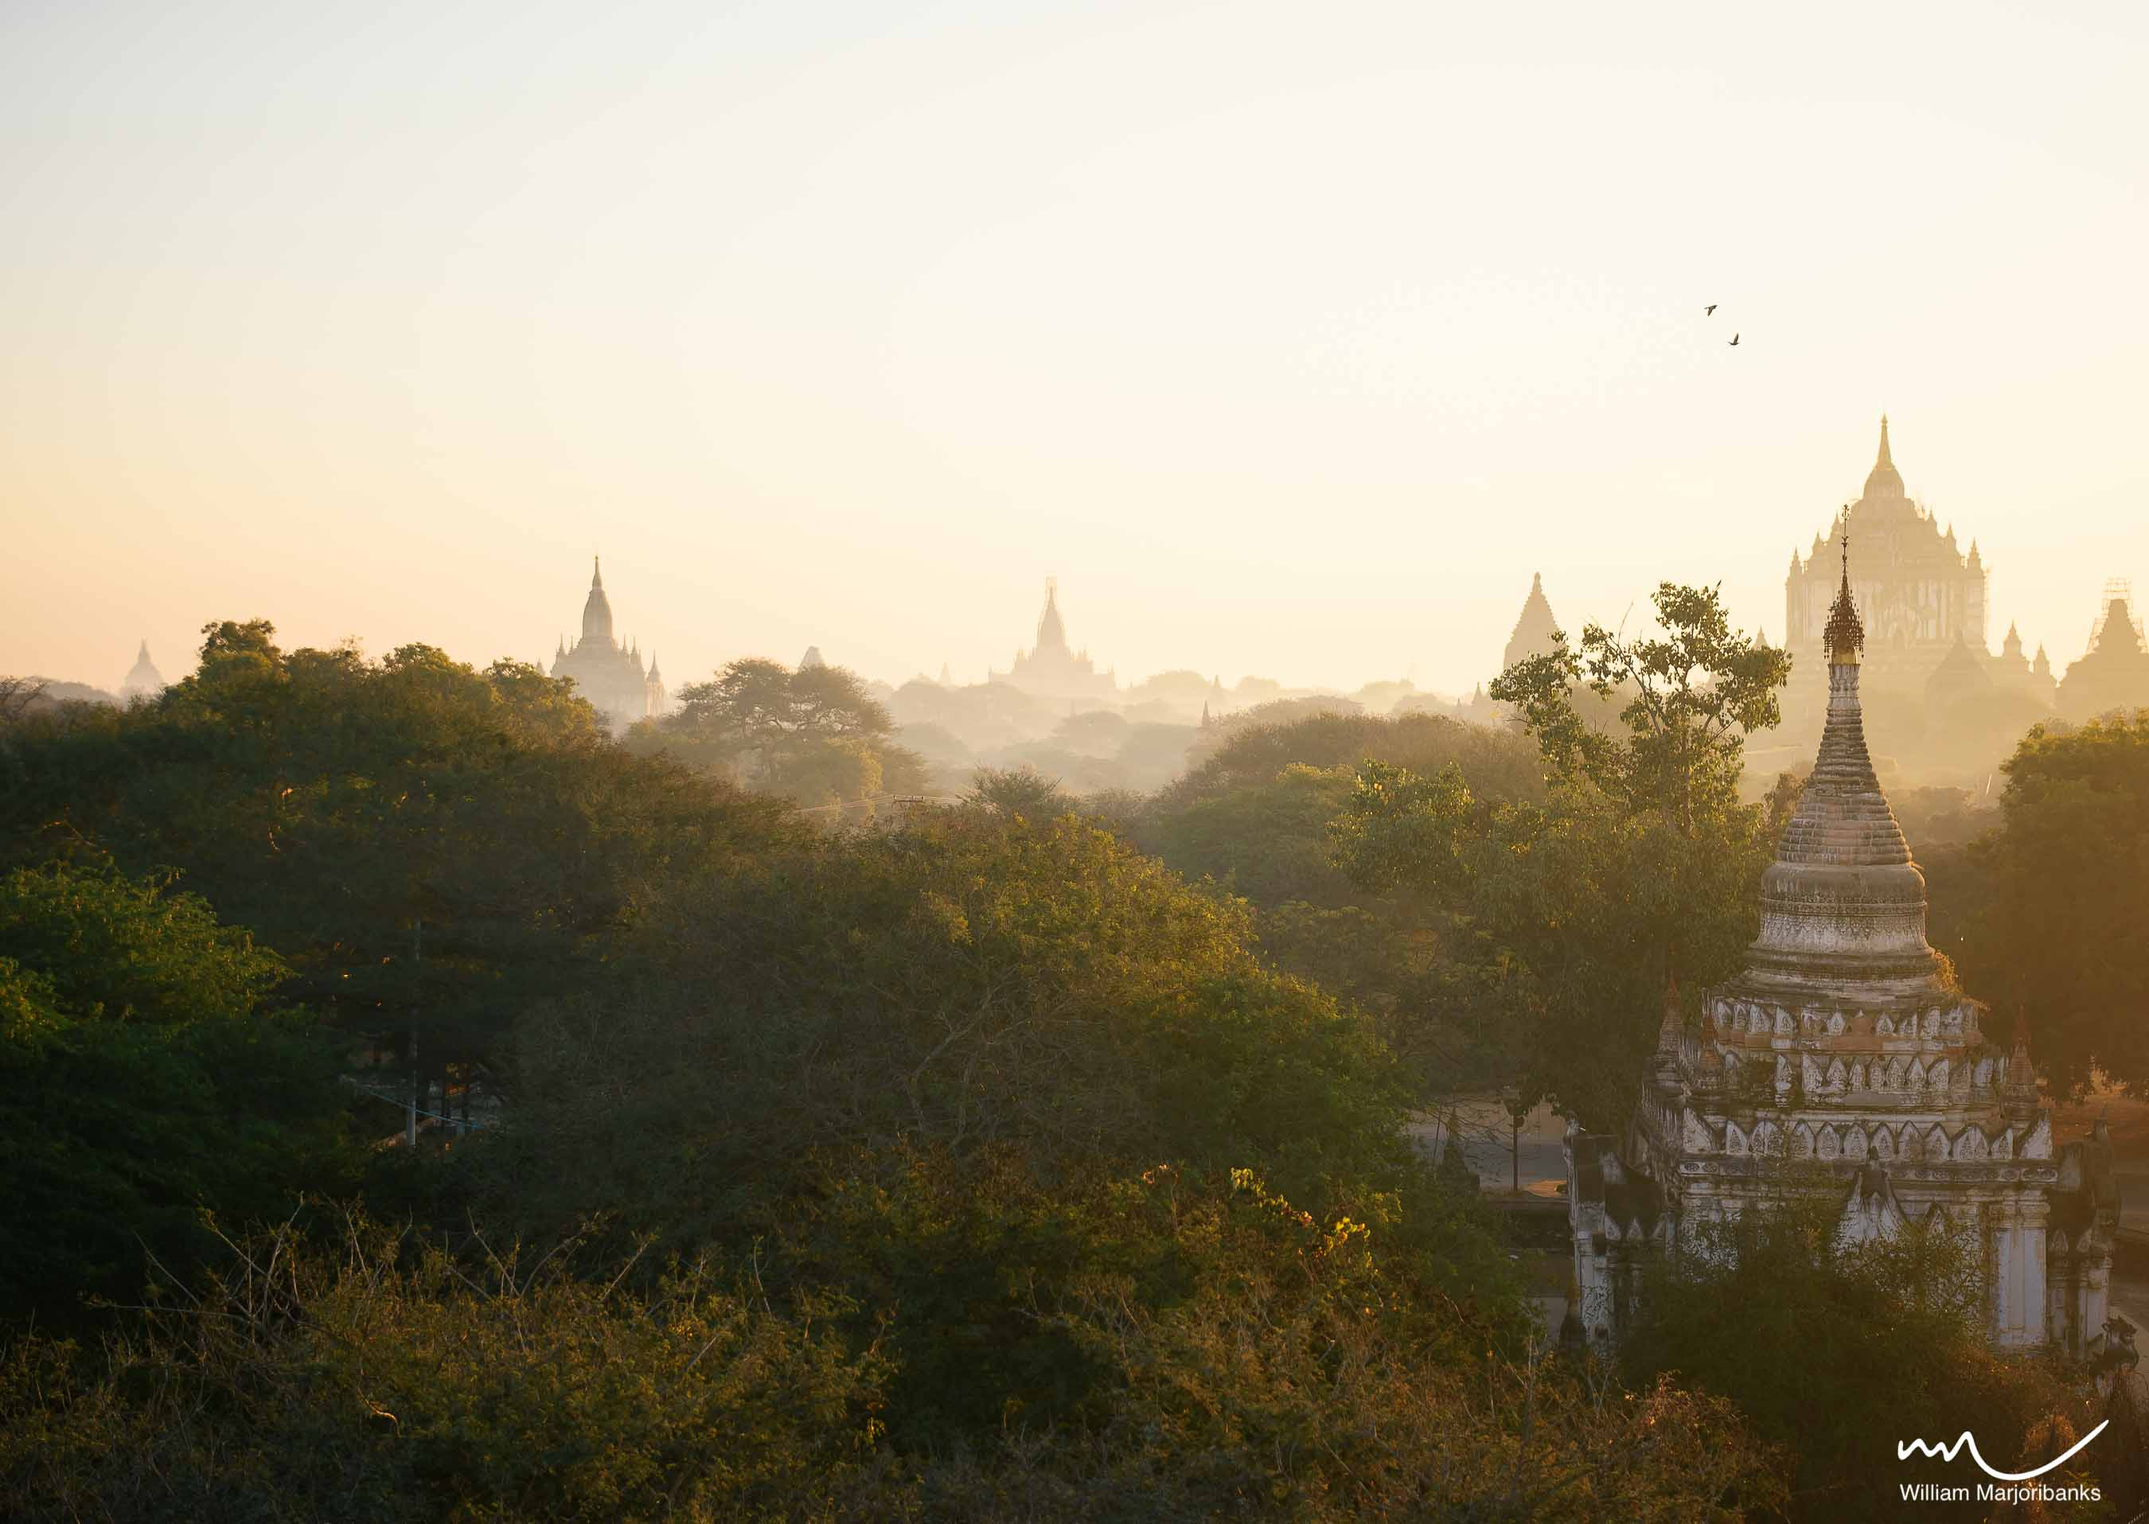
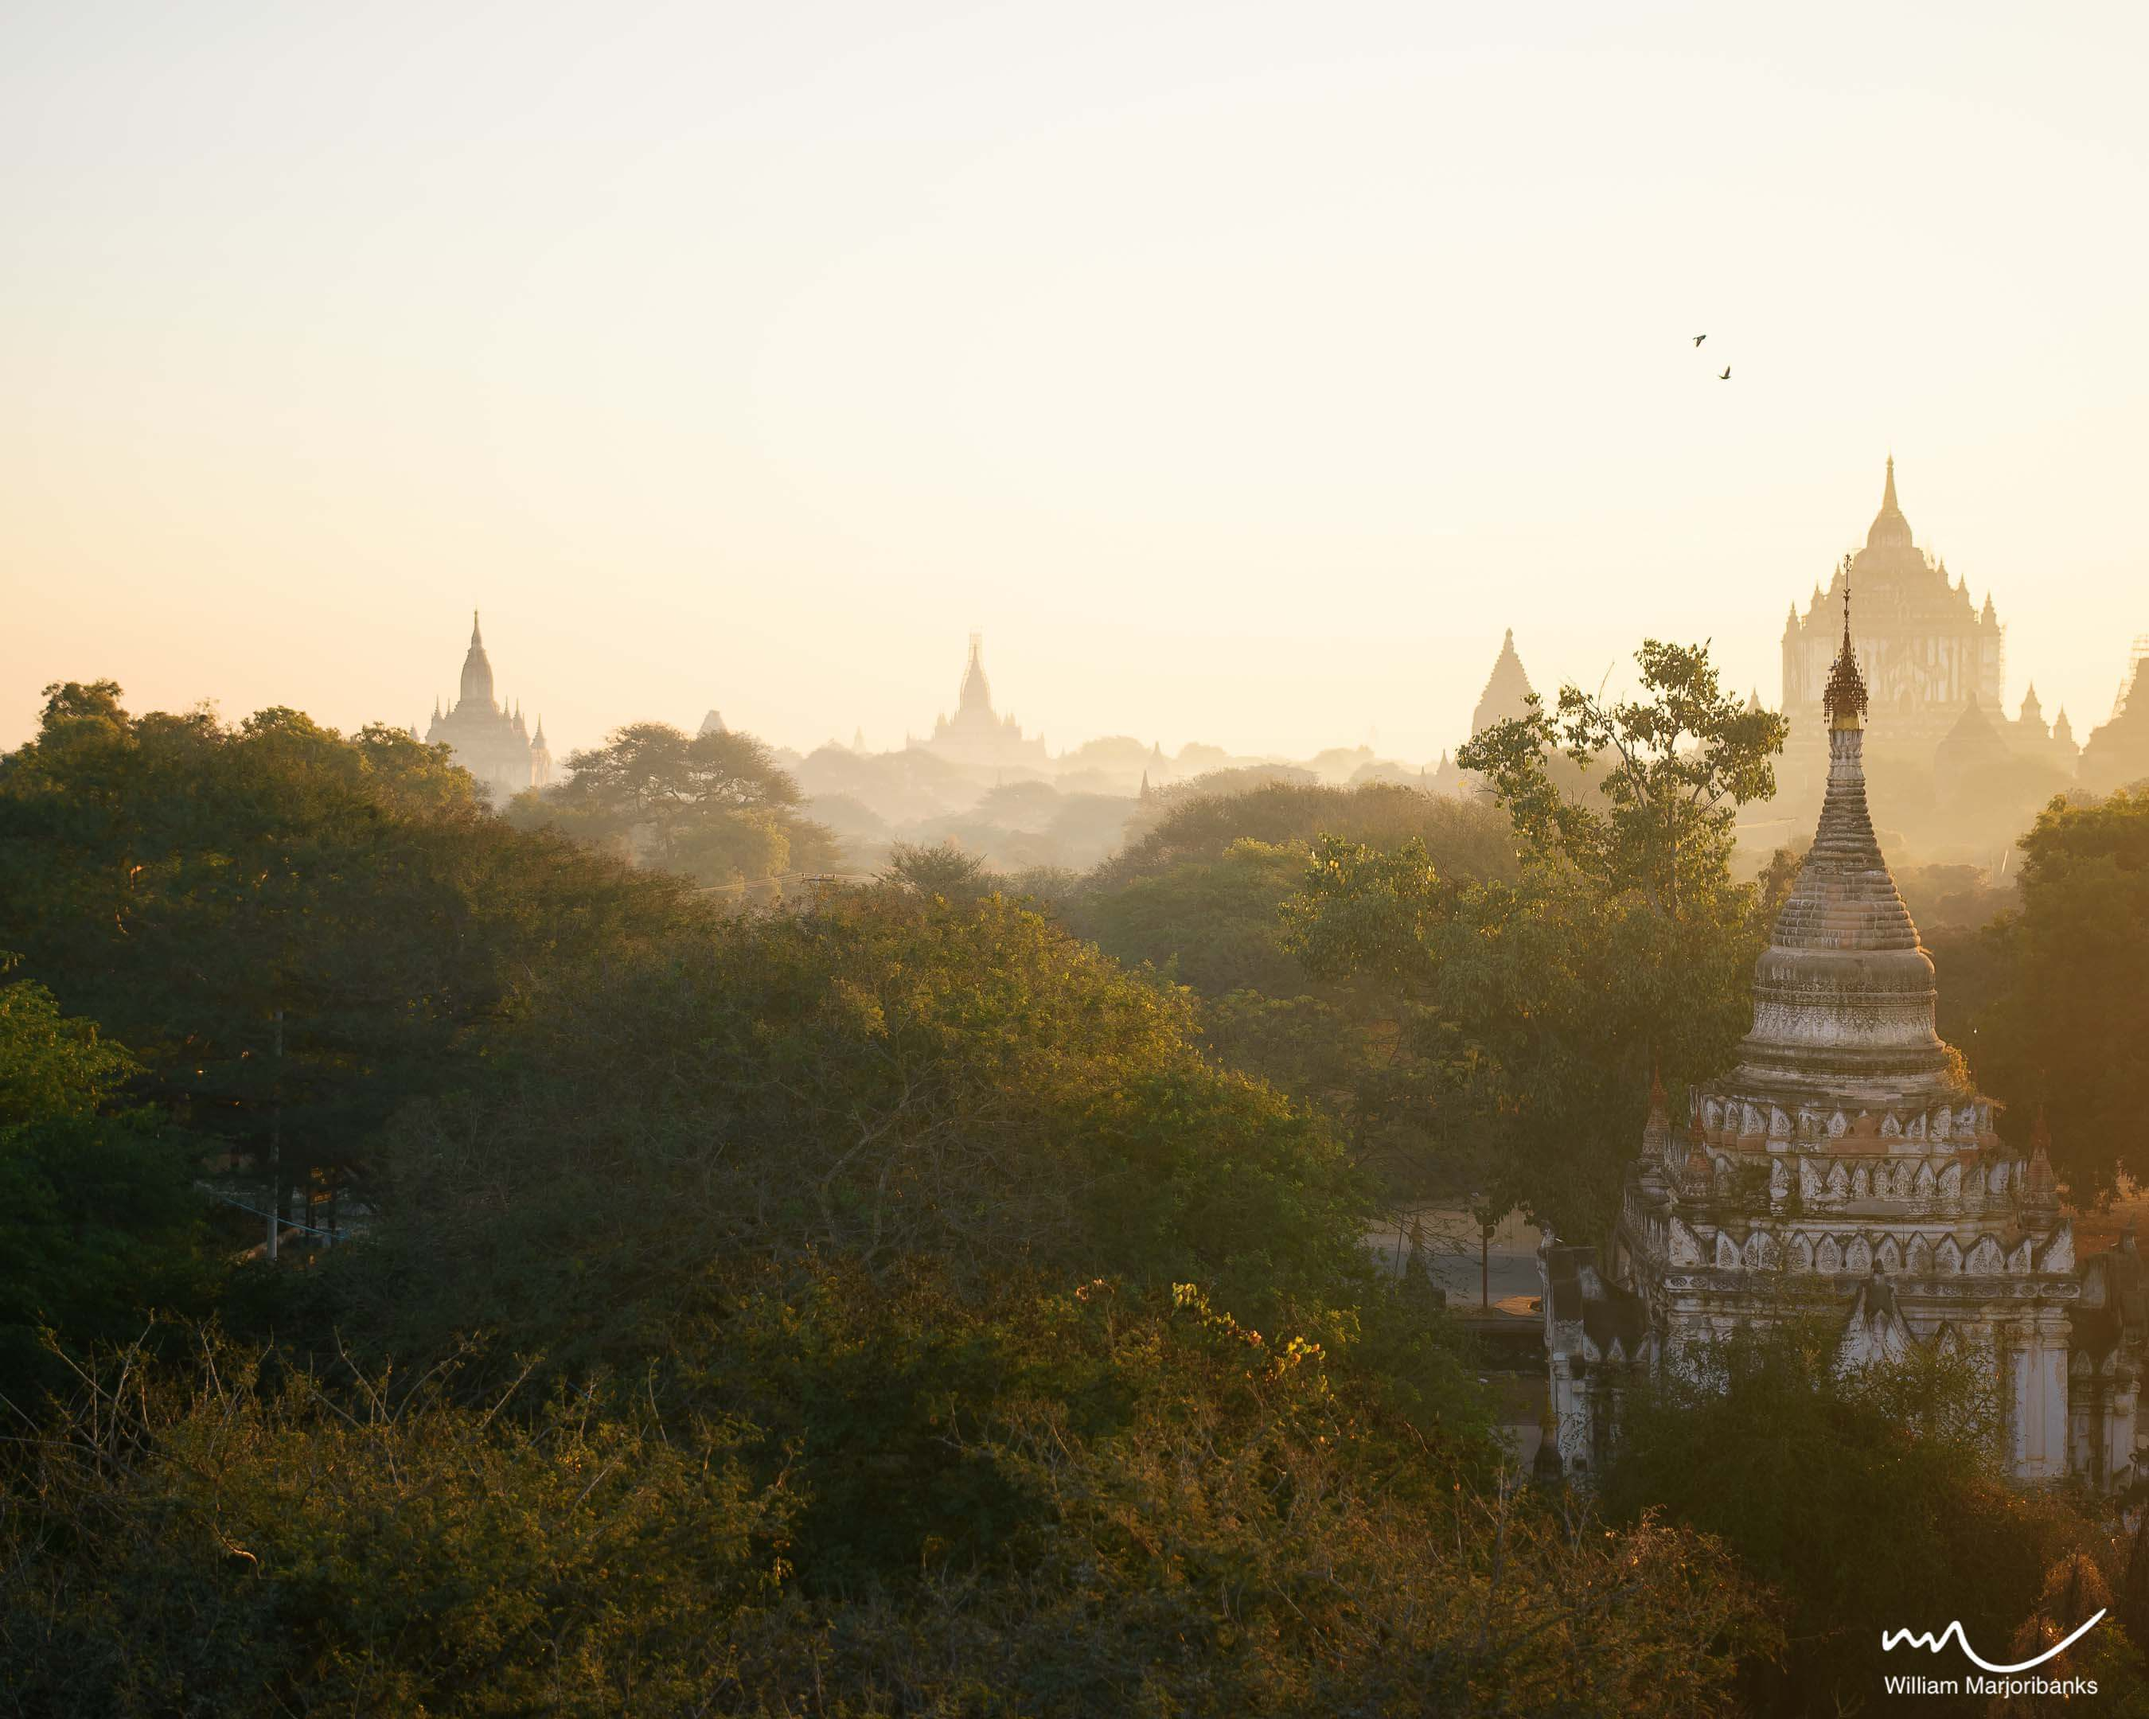
Reuploaded DSC6688.JPG for sizing on carousel in small screen size on myanmar.html.

diff --git a/mainblog.html b/mainblog.html
@@ -53,7 +53,7 @@
     <section class="container">
         <div class="row BlogRow">
             <article class="col-lg-3 col-md-6 col-sm-12 BlogArt text-center">
-                <img src="assets/images/blogimg/screens1.jpg" class="BlogImg" alt="HTML Code" width="100%">
+                <img src="assets/images/blogimg/screens1.jpg" class="BlogImg img-fluid" alt="HTML Code">
                     <h5 class="BlogDate">1/7/2020</h5>
                     <h3 class="BlogHead">A Career Change? Full Stack Solution</h3>
                     <p class="BlogText">"Javascript and Python though – challenge accepted... Algebraic by nature, I envision myself 
@@ -61,7 +61,7 @@
                 <a href="codeblog.html" class="btn btn-primary btn-sm BlogBtn">Read More</a>
             </article> 
             <article class="col-lg-3 col-md-6 col-sm-12 BlogArt text-center">
-                <img src="assets/images/blogimg/DSC4848.JPG" class="BlogImg" alt="Boat Sunrise" width="100%">
+                <img src="assets/images/blogimg/DSC4848.JPG" class="BlogImg img-fluid" alt="Boat Sunrise">
                     <h5 class="BlogDate">1/6/2020</h5>
                     <h3 class="BlogHead">Don't Go To Bali for Downtime</h3>
                     <p class="BlogText">"I felt less stressed, when the hotel I worked for was told that the water supply had been cut due 
@@ -69,7 +69,7 @@
                 <a href="baliblog.html" class="btn btn-primary btn-sm BlogBtn">Read More</a>
             </article>
             <article class="col-lg-3 col-md-6 col-sm-12 BlogArt text-center">
-                <img src="assets/images/blogimg/DSC7987.JPG" class="BlogImg" alt="Starry Night" width="100%">
+                <img src="assets/images/blogimg/DSC7987.JPG" class="BlogImg img-fluid" alt="Starry Night">
                     <h5 class="BlogDate">1/5/2020</h5>
                     <h3 class="BlogHead">New Zealand Really Isn't <em>That</em> Pretty</h3>
                     <p class="BlogText">"...being covered daily in a slew of bovine faecal matter fresh from the orifice it emanates, was not 
@@ -77,7 +77,7 @@
                 <a href="nzblog.html" class="btn btn-primary btn-sm BlogBtn">Read More</a>
             </article>
             <article class="col-lg-3 col-md-6 col-sm-12 BlogArt text-center">
-                <img src="assets/images/blogimg/DSC6843.JPG" class="BlogImg" alt="" width="100%">
+                <img src="assets/images/blogimg/DSC6843.JPG" class="BlogImg img-fluid" alt="Temple sunrise">
                     <h5 class="BlogDate">1/4/2020</h5>
                     <h3 class="BlogHead">Mingalaba, Myanmar</h3>
                     <p class="BlogText">"...a tubular piece of cotton which replaces the need for trousers – and growing up in 
